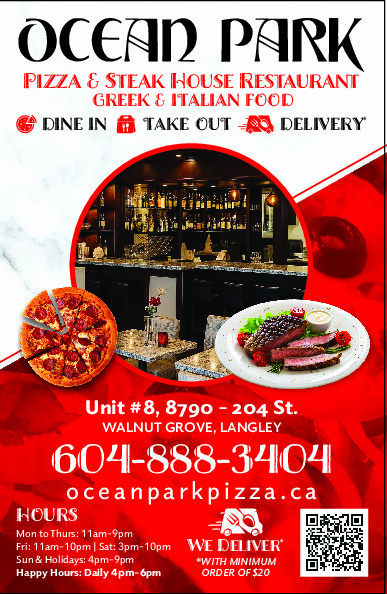
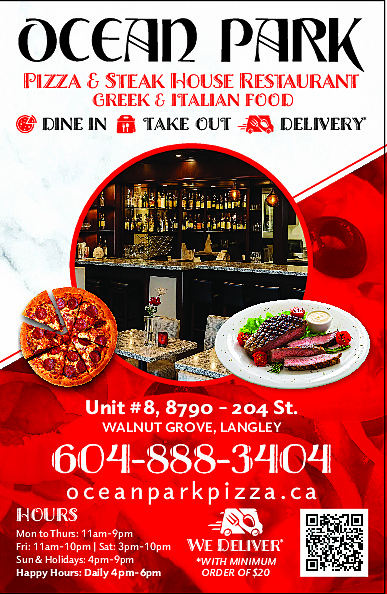
Redesign contact button and improve image quality
- Remove download menu button
- Create modern, delightful contact button with email functionality
- Add hover animations, shadows, and shimmer effect
- Center button and improve responsive design
- Regenerate menu images at 600 DPI with 95% quality and sharpening
- Contact email: oceanparkpizza@myyahoo.com

🤖 Generated with [Claude Code](https://claude.ai/code)

diff --git a/src/App.css b/src/App.css
@@ -25,39 +25,81 @@ body {
 
 /* Top menu styling */
 .top_menu {
-    width: 700px;
-    min-height: 50px;
+    width: 100%;
+    max-width: 700px;
+    min-height: 70px;
     margin-left: auto;
     margin-right: auto;
-    margin-top: 5px;
-    margin-bottom: 5px;
+    margin-top: 20px;
+    margin-bottom: 20px;
+    display: flex;
+    justify-content: center;
+    align-items: center;
 }
 
-.top_menu .button {
-    width: 180px;
-    height: 30px;
-    border-radius: 9px;
-    box-shadow: 1px 1px 3px #4d4d4d;
-    float: right;
-    margin-left: 10px;
-    padding-top: 6px;
-    font-size: 130%;
-    font-weight: bold;
-    color: #FFF;
-    text-align: center;
-    text-shadow: 1px 1px 1px #000000;
-    cursor: pointer;
+/* Modern Contact Button */
+.contact-button {
+    display: inline-flex;
+    align-items: center;
+    justify-content: center;
+    gap: 12px;
+    padding: 16px 32px;
+    font-size: 18px;
+    font-weight: 600;
+    color: white;
+    background: linear-gradient(135deg, #667eea 0%, #764ba2 100%);
     border: none;
+    border-radius: 50px;
+    box-shadow: 
+        0 8px 32px rgba(102, 126, 234, 0.4),
+        0 4px 16px rgba(0, 0, 0, 0.1);
+    cursor: pointer;
+    transition: all 0.3s cubic-bezier(0.4, 0, 0.2, 1);
+    position: relative;
+    overflow: hidden;
+    text-decoration: none;
+    outline: none;
+    min-width: 200px;
 }
 
-.top_menu .green {
-    background: #fceabb;
-    background: linear-gradient(to bottom, #fceabb 0%, #fccd4d 50%, #f8b500 51%, #fbdf93 100%);
+.contact-button:hover {
+    transform: translateY(-2px);
+    box-shadow: 
+        0 12px 40px rgba(102, 126, 234, 0.5),
+        0 8px 24px rgba(0, 0, 0, 0.15);
+    background: linear-gradient(135deg, #5a67d8 0%, #6b46c1 100%);
 }
 
-.top_menu .button.blue {
-    background: #6db3f2;
-    background: linear-gradient(to bottom, #6db3f2 0%, #54a3ee 50%, #3690f0 51%, #1e69de 100%);
+.contact-button:active {
+    transform: translateY(0);
+    box-shadow: 
+        0 4px 16px rgba(102, 126, 234, 0.4),
+        0 2px 8px rgba(0, 0, 0, 0.1);
+}
+
+.contact-button:focus {
+    outline: 3px solid rgba(102, 126, 234, 0.3);
+    outline-offset: 2px;
+}
+
+.contact-button::before {
+    content: '';
+    position: absolute;
+    top: 0;
+    left: -100%;
+    width: 100%;
+    height: 100%;
+    background: linear-gradient(90deg, transparent, rgba(255, 255, 255, 0.2), transparent);
+    transition: left 0.5s;
+}
+
+.contact-button:hover::before {
+    left: 100%;
+}
+
+.contact-icon {
+    font-size: 20px;
+    filter: drop-shadow(0 1px 2px rgba(0, 0, 0, 0.1));
 }
 
 /* Top bar styling */
@@ -116,13 +158,17 @@ body {
 @media (max-width: 768px) {
     .top_menu {
         width: 90%;
-        text-align: center;
+        padding: 0 20px;
     }
     
-    .top_menu .button {
-        float: none;
-        display: inline-block;
-        margin: 5px;
+    .contact-button {
+        min-width: 180px;
+        padding: 14px 28px;
+        font-size: 16px;
+    }
+    
+    .contact-icon {
+        font-size: 18px;
     }
     
     .top_bar {
@@ -131,5 +177,18 @@ body {
     
     .menuImage {
         max-width: 100%;
+    }
+}
+
+@media (max-width: 480px) {
+    .contact-button {
+        min-width: 160px;
+        padding: 12px 24px;
+        font-size: 15px;
+        gap: 8px;
+    }
+    
+    .contact-icon {
+        font-size: 16px;
     }
 }

diff --git a/src/App.jsx b/src/App.jsx
@@ -16,13 +16,14 @@ function App() {
         <div className="container">
           <div className="span-24 heading">
             <div className="top_menu">
-              <div id="contact_us_button" className="button green">
+              <button 
+                className="contact-button"
+                onClick={() => window.open('mailto:oceanparkpizza@myyahoo.com', '_blank')}
+                aria-label="Contact Ocean Park Pizza via email"
+              >
+                <span className="contact-icon">📧</span>
                 Contact Us
-              </div>
-              
-              <div id="download_pdf_menu_button" className="button blue">
-                Download Menu
-              </div>
+              </button>
             </div>
             
             <div className="top_bar"></div>
